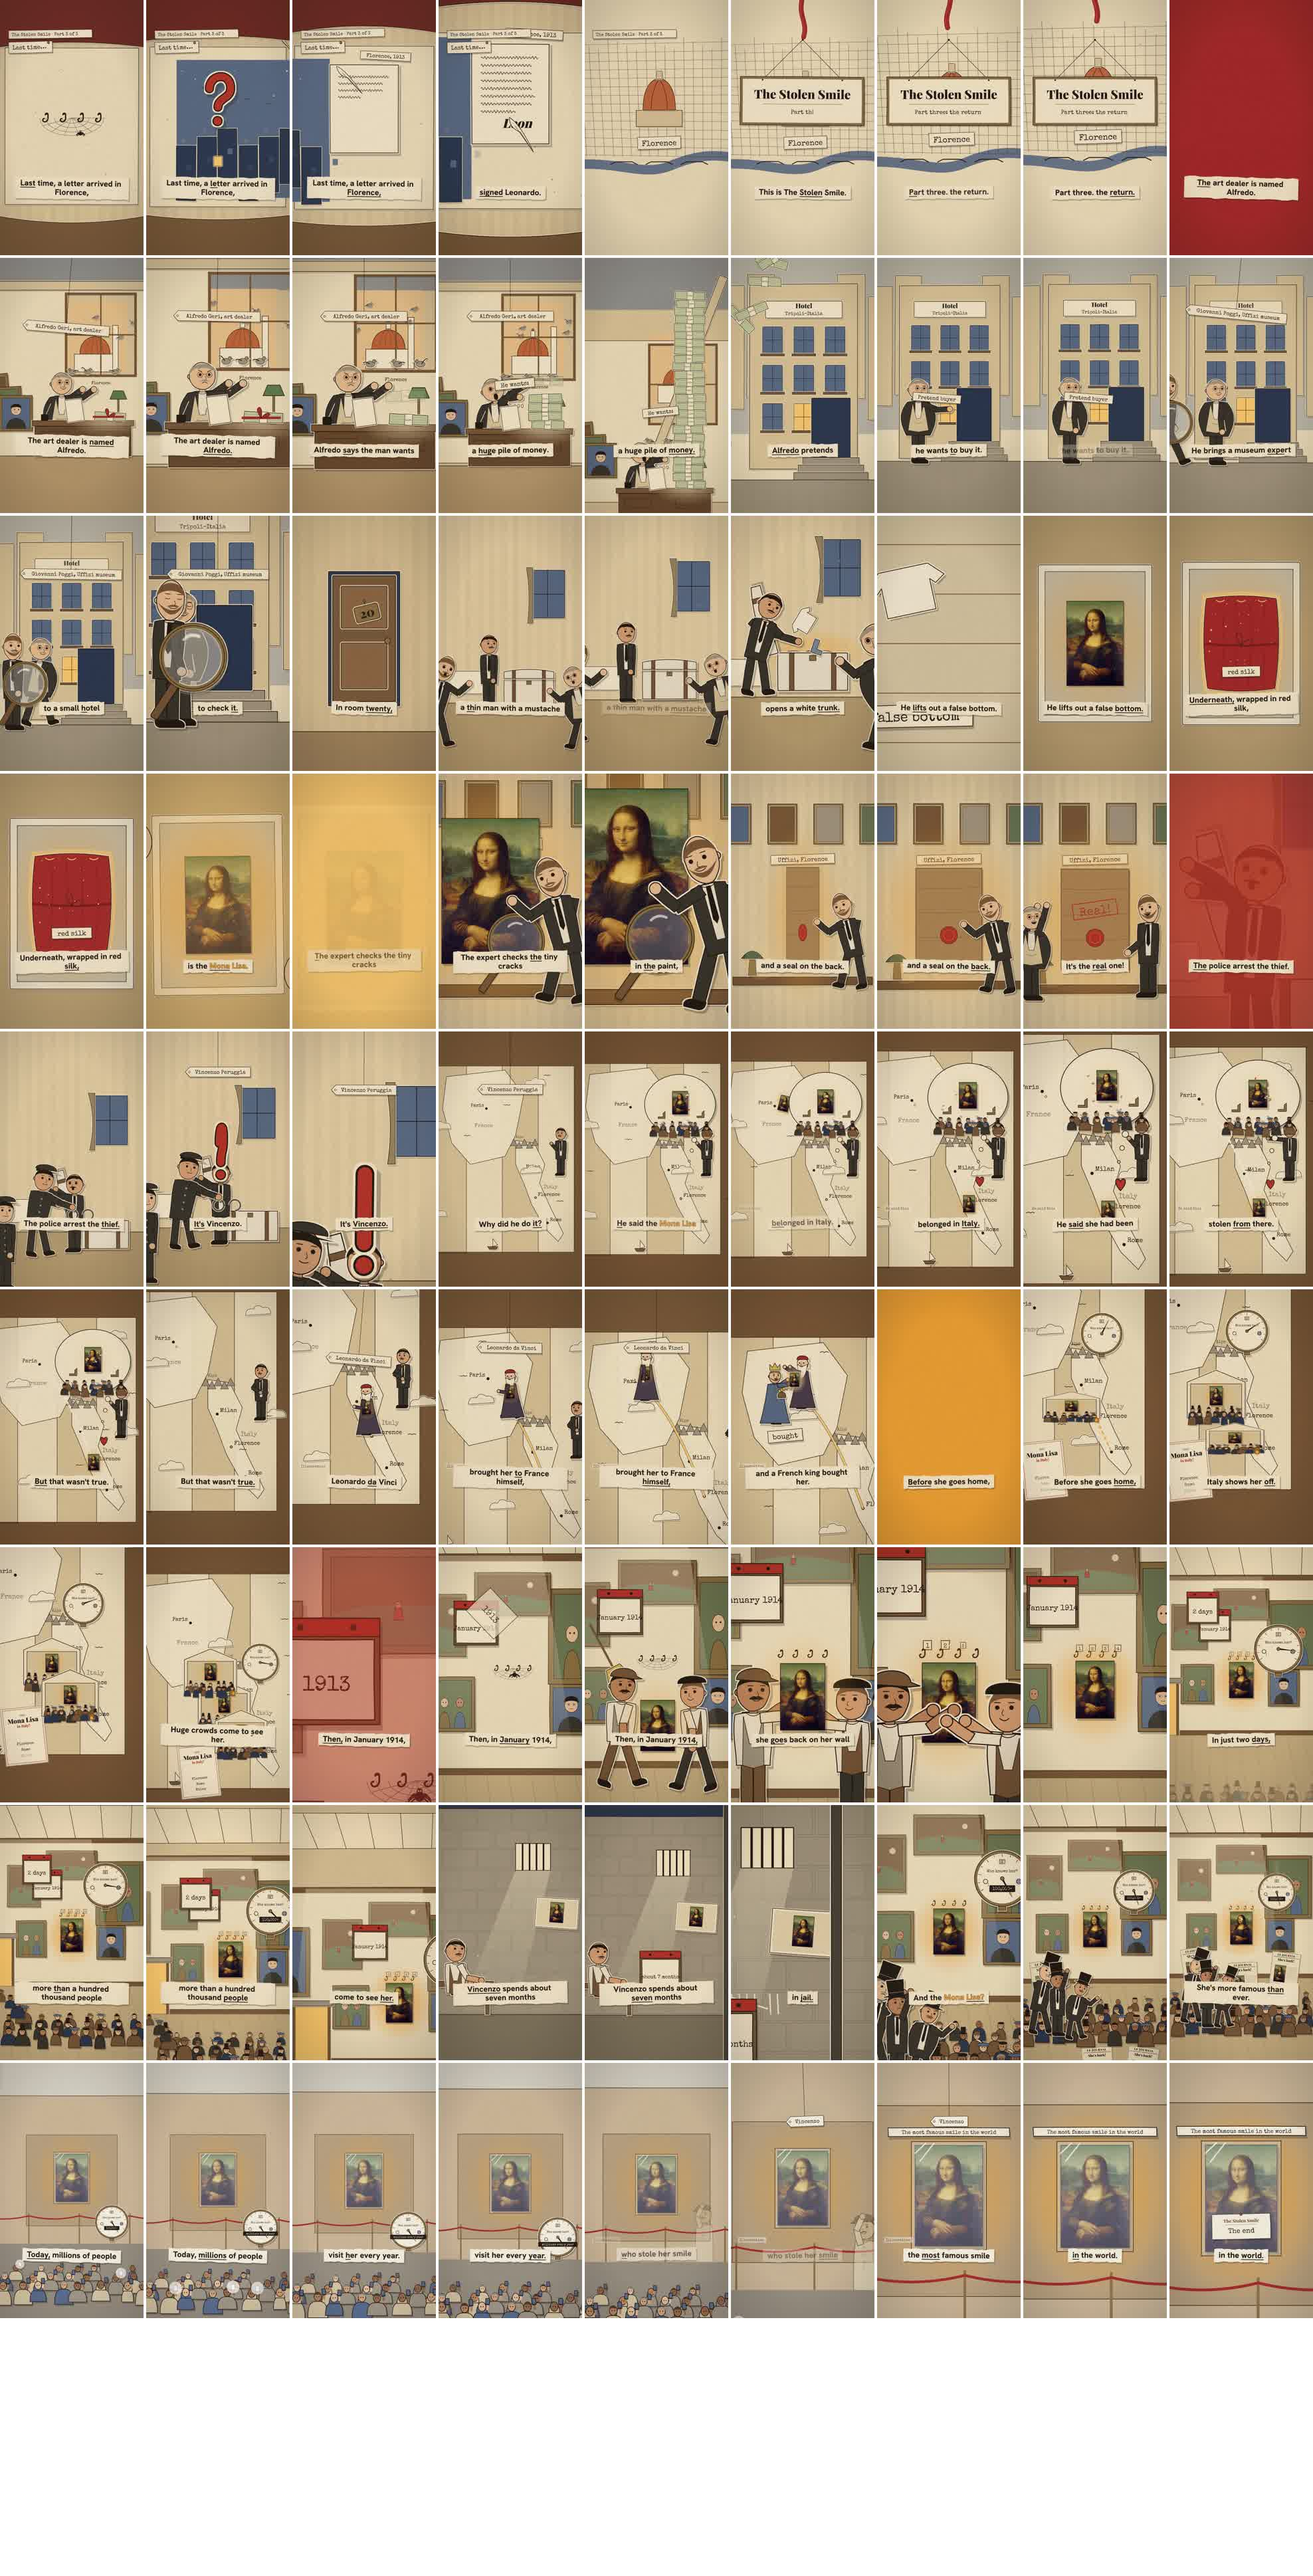
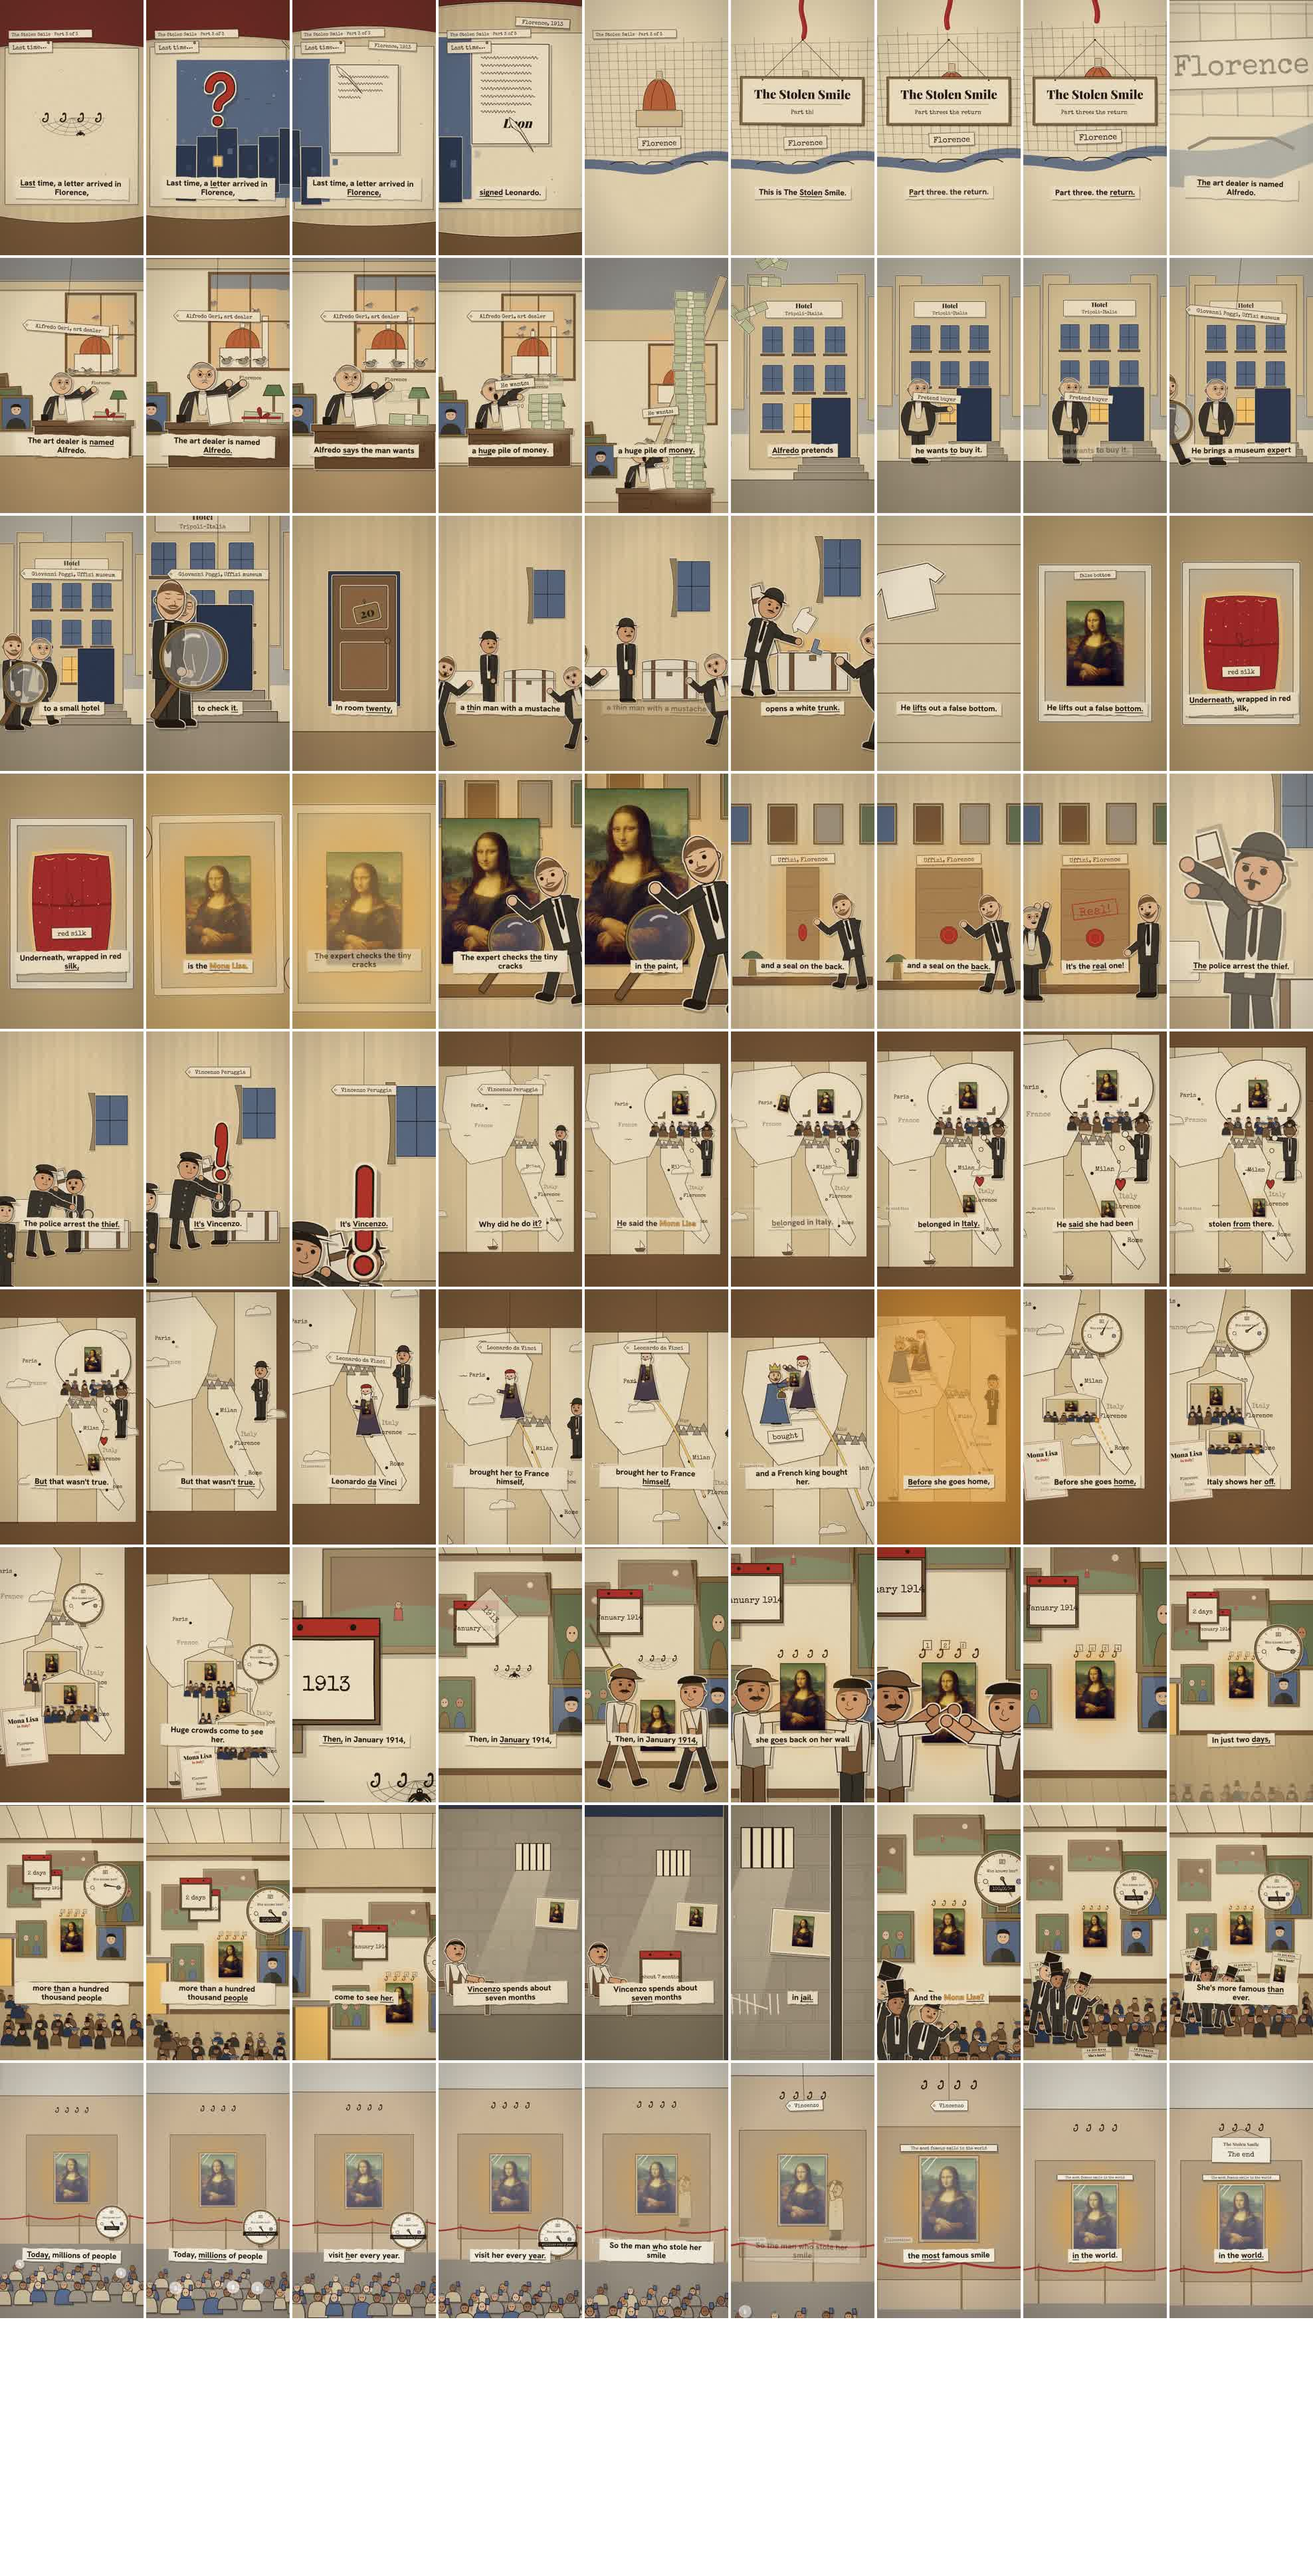
Stolen Smile 3 v1.1: continuity fixes (end card on wall hooks, labels, floods, ghost, bowler); stills refreshed
Claude-Session: https://claude.ai/code/session_01WProZZeLN84ujiXNibGUE2

diff --git a/projects/stolen-smile-3/film/src/p3/scenesB.tsx b/projects/stolen-smile-3/film/src/p3/scenesB.tsx
@@ -6,7 +6,7 @@ import {Camera, Layer} from '../kit/camera';
 import {C as T, FONT} from '../series/tokens';
 import {Crowd} from '../series/characters';
 import {PaperMap, MAP_CITIES, SalonCarre, HER, PrisonCell, ModernLouvre, MODERN_HER} from '../series/sets';
-import {FameGauge, Calendar as KCal, Newspaper, Postcard} from '../series/props';
+import {Hooks as KHooks, FameGauge, Calendar as KCal, Newspaper, Postcard} from '../series/props';
 import {B, pr, win, lerp, two, keys, inOut} from './util';
 import {Cut, rect, wrect, Chalk, Eraser, Tally, Confetti, TourPoster, NoteBundle} from './props';
 import {Wall, Floor, Dust} from './scenesA';
@@ -216,7 +216,7 @@ export const Cell: React.FC<S> = ({t, fr}) => {
       <Dust t={t} x={300} y={600} w={500} h={900} seed="cd" col={T.card} n={14} />
       <g transform="translate(860 860)">{t > B.seven + 0.4 && t < B.seven + 0.75 && <circle r={40} fill="url(#ss-amber-soft)" />}</g>
       <g transform="translate(220 1500)"><K.P who="vincenzo" fr={fr} costume="shirt" pose={t > B.seven + 0.8 ? 'sigh' : 'sit'} expr={t > B.seven + 0.8 ? 'smile' : 'sad'} look={[1.5, -1]} /></g>
-      <Layer depth={1.25}><KCal fr={fr} x={640} y={lerp(-300, 1220, pr(t, B.seven - 0.2, 0.4))} size={1.3} pages={['about 7 months']} />
+      <Layer depth={1.25}><g opacity={1 - pr(t, B.l14 - 0.7, 0.25)}><KCal fr={fr} x={640} y={lerp(-300, 1220, pr(t, B.seven - 0.2, 0.4))} size={1.3} pages={['about 7 months']} /></g>
         {[20, 1060].map((x) => <Cut key={x} d={rect(x - 18, -300, 36, 2500)} fill="#4A4540" sw={3} />)}</Layer>
     </Camera>
   );
@@ -250,14 +250,17 @@ export const Today: React.FC<S> = ({t, fr}) => {
   const push = pr(t, B.smile2 - 1.2, 2.0, inOut);
   const smY = MODERN_HER.y - MODERN_HER.h / 2 + 0.3 * MODERN_HER.h;
   return (
-    <Camera fr={fr} keys={keys([[a, {zoom: 0.95, x: 540, y: 1000}], [B.millions, {zoom: 1.0, x: 540, y: 980}], [B.stole, {zoom: 1.12, x: 540, y: 940}], [B.smile2, {zoom: 2.0, x: 540, y: MODERN_HER.y - 20}], [B.end + 1.4, {zoom: 2.15, x: 540, y: MODERN_HER.y - 30}]])} background={T.paper}>
+    <Camera fr={fr} keys={keys([[a, {zoom: 0.95, x: 540, y: 1000}], [B.millions, {zoom: 1.0, x: 540, y: 980}], [B.stole, {zoom: 1.12, x: 540, y: 940}], [B.smile2, {zoom: 1.6, x: 540, y: 860}], [B.end - 0.5, {zoom: 1.25, x: 540, y: 740}], [B.end + 1.4, {zoom: 1.28, x: 540, y: 736}]])} background={T.paper}>
       <Layer depth={0.2}><ModernLouvre fr={fr} only={['backdrop']} /></Layer>
       <ModernLouvre fr={fr} only={['mid']} herGlow={0.6 + 0.4 * push} glintAt={[F(B.end - 0.2)]} />
       {/* the museum's wall label: the payoff in print */}
       <g transform={`translate(540 ${MODERN_HER.y - MODERN_HER.h / 2 - 50})`} opacity={pr(t, B.smile2 - 0.3, 0.4)}><K.Label text="The most famous smile in the world" size={20} rot={0} /></g>
       {/* the ghost of Vincenzo in his white smock tips his cap */}
-      {ghost > 0 && <g transform="translate(860 1500)" opacity={ghost}><K.P who="vghost" fr={fr} h={460} pose="tipCap" expr="smile" facing={-1} /></g>}
       <ModernLouvre fr={fr} only={['actors']} flashAt={F(a)} flow={0.8} />
+      {/* the ghost of Vincenzo in his white smock tips his cap: standing by the wall, fully in frame */}
+      {ghost > 0 && <g transform="translate(730 1180)" opacity={ghost}><K.P who="vghost" fr={fr} h={330} pose="tipCap" expr="smile" facing={-1} /></g>}
+      {/* four kit hooks on the wall above her case: the end card hangs from them */}
+      <KHooks fr={fr} x={540} y={372} size={1.3} state="empty" />
       <Layer depth={1.2}><g opacity={1 - pr(t, B.stole - 0.4, 0.4)}><FameGauge fr={fr} x={860} y={1260} value={1.1} tremble={4} odometer={t > B.millions - 0.1 ? 'millions every year' : '100,000+'} size={0.8} /></g></Layer>
       {void smY}
     </Camera>

diff --git a/projects/stolen-smile-3/film/src/Film.tsx b/projects/stolen-smile-3/film/src/Film.tsx
@@ -32,7 +32,7 @@ const LINES = [
   'Vincenzo spends about seven months', 'in jail.',
   'And the Mona Lisa?', "She's more famous than ever.",
   'Today, millions of people', 'visit her every year.',
-  'So the man', 'who stole her smile', 'helped make it', 'the most famous smile', 'in the world.',
+  'So the man who stole her smile', 'helped make it', 'the most famous smile', 'in the world.',
 ];
 const CHUNKS = chunk(WORDS, LINES);
 
@@ -43,8 +43,8 @@ const SCENES: [number, React.FC<{t: number; fr: number}>][] = [
 ];
 // the carrier colour that fills the frame at each hand-off (the camera passes through the carrier)
 const PASS: Record<number, string> = {
-  [B.l2]: C.silk, [B.l3]: '#C9D3B0', [B.l4]: C.nightBlue, [B.l5]: '#C9C0AE', [B.l6]: C.amberGlow, [B.l7]: C.clueRed,
-  [B.l8]: '#FBFAF4', [B.l10]: C.amber, [B.l11]: C.clueRed, [B.l13]: C.card, [B.l14]: C.card,
+  [B.l2]: C.card, [B.l3]: '#C9D3B0', [B.l4]: C.nightBlue, [B.l5]: '#C9C0AE', [B.l6]: C.amberGlow, [B.l7]: C.card,
+  [B.l8]: '#FBFAF4', [B.l10]: C.amber, [B.l11]: C.card, [B.l13]: C.card, [B.l14]: C.card,
 };
 
 export const Film: React.FC<{captions?: boolean}> = ({captions = true}) => {
@@ -53,8 +53,8 @@ export const Film: React.FC<{captions?: boolean}> = ({captions = true}) => {
   let idx = 0;
   for (let i = 0; i < SCENES.length; i++) if (t >= SCENES[i][0]) idx = i;
   const Scene = SCENES[idx][1];
-  const passCol = Object.entries(PASS).map(([k, col]) => [Number(k), col] as const).find(([k]) => Math.abs(t - k) < 0.2);
-  const passO = passCol ? interpolate(Math.abs(t - passCol[0]), [0, 0.1, 0.2], [1, 0.85, 0], CL) : 0;
+  const passCol = Object.entries(PASS).map(([k, col]) => [Number(k), col] as const).find(([k]) => Math.abs(t - k) < 0.14);
+  const passO = passCol ? interpolate(Math.abs(t - passCol[0]), [0, 0.06, 0.14], [0.6, 0.45, 0], CL) : 0;
   const modern = t >= B.l15 - 0.3;
   const wash = modern ? 1 - pr(t, B.l15 - 0.3, 0.9) : undefined;
   return (
@@ -74,8 +74,8 @@ export const Film: React.FC<{captions?: boolean}> = ({captions = true}) => {
       <HonestyTag fr={fr} at={F(B.italy)} text="He said this" dur={110} />
       <HonestyTag fr={fr} at={F(B.leo)} text="Illustration" dur={110} />
       <HonestyTag fr={fr} at={F(B.stole)} text="Illustration" dur={70} />
-      <NameTag fr={fr} at={F(B.stole) + 4} text="Vincenzo" y={440} dur={60} />
-      <EndCard fr={fr} at={F(B.end - 0.3)} part={3} text="The end" x={540} y={1230} />
+      <NameTag fr={fr} at={F(B.stole) + 4} text="Vincenzo" y={320} dur={60} />
+      <EndCard fr={fr} at={F(B.end - 0.3)} part={3} text="The end" x={540} y={655} hangFrom={[540, 500]} />
       <Captions fr={fr} chunks={CHUNKS} show={captions} />
     </SeriesGrade>
   );

diff --git a/projects/stolen-smile-3/film/src/p3/scenesA.tsx b/projects/stolen-smile-3/film/src/p3/scenesA.tsx
@@ -105,7 +105,7 @@ export const Recap: React.FC<S> = ({t, fr}) => {
         <g transform={`translate(${60 + Math.sin(t * 3) * 6} ${80 + Math.sin(t * 2) * 30})`}><K.Spider fr={fr} size={2.5} /></g></g>
       <g transform={`translate(${bX} 960)`}><RoofsQ t={t} /></g>
       <g transform={`translate(${cX} 960)`}>
-        <g transform="translate(150 -520)"><K.Label text="Florence, 1913" size={36} rot={3} /></g>
+        <g transform="translate(200 -590)"><K.Label text="Florence, 1913" size={34} rot={3} /></g>
         <KLetter fr={fr} x={0} y={-150} size={1.4} write={pr(t, 1.9, 1.3, (k) => k)} sign={sign} dropAt={F(B.leonardo + 0.28)} />
         {t < B.leonardo + 0.8 && <g transform={`translate(${t < 3.2 ? -180 + ((t - 1.9) / 1.3 * 8 % 1) * 340 : 40 + sign * 200} ${t < 3.2 ? -400 + Math.floor((t - 1.9) / 1.3 * 8) * 48 : 210}) rotate(${-30 + Math.sin(t * 20) * 8})`}>
           <path d="M0,0 L-14,-150 Q-60,-200 -30,-260 Q10,-200 0,0 Z" fill={T.card} stroke={T.ink} strokeWidth={3} /><path d="M0,0 L-24,-200" stroke={T.ink} strokeWidth={2} /></g>}
@@ -312,12 +312,13 @@ export const TrunkTop: React.FC<S> = ({t, fr}) => {
         <path d="M0,14 q-60,-70 -20,-90 q40,10 20,90 q50,-60 80,-30 q-10,40 -80,30" fill={T.silk} stroke={T.ink} strokeWidth={3} />
         <g transform="translate(0 200)"><K.Label text="red silk" size={46} /></g>
       </g>}
+      {/* label above the trunk (kit label size), while the board lifts */}
+      <g transform="translate(540 455)" opacity={win(t, B.lifts - 0.1, B.underneath + 0.3, 0.15)}><K.Label text="false bottom" size={36} /></g>
       {/* the false bottom board lifts out toward the camera */}
       {board < 1 && <g transform={`translate(${540 + board * 700} ${960 - board * 200}) rotate(${board * 30}) scale(${1 + board * 0.6})`}>
         <Cut d={rect(-370, -530, 740, 1060, 6)} fill="#D9CCB2" sw={3.5} />
         {Array.from({length: 6}, (_, i) => <path key={i} d={`M-370,${-530 + i * 177}h740`} stroke={T.sepia} strokeWidth={3} />)}
         <circle cx={300} cy={0} r={18} fill={T.sepia} stroke={T.ink} strokeWidth={2.5} />
-        <g transform="translate(-120 260)"><K.Label text="false bottom" size={50} /></g>
         {/* leftover shirt on the board */}
         <g transform="translate(-150 -200) rotate(-12)"><Cut d="M-90,-70 h180 l50,50 -36,24 -18,-18 v110 h-176 v-110 l-18,18 -36,-24z" fill={T.white} /></g>
       </g>}

diff --git a/projects/stolen-smile-3/film/src/p3/K.tsx b/projects/stolen-smile-3/film/src/p3/K.tsx
@@ -25,7 +25,7 @@ export const P: React.FC<{who: Who; fr: number; pose?: PoseName; expr?: Expr; fa
   ({who, fr, pose = 'stand', expr = 'calm', facing = 1, h, hold, under, look, costume = 'suit', monocle}) => {
     const c = {fr, x: 0, y: 0, pose, expr, facing, hold, under, look};
     switch (who) {
-      case 'vincenzo': return <Vincenzo {...c} costume={costume} hatOff={costume === 'suit'} height={h} />;
+      case 'vincenzo': return <Vincenzo {...c} costume={costume} hatOff={false} height={h} />;
       case 'vghost': return <Vincenzo {...c} costume="smock" ghost height={h} />;
       case 'geri': return <Geri {...c} height={h} />;
       case 'police': return <Police {...c} force="florence" tone={2} height={h} />;

diff --git a/projects/stolen-smile-3/REPORT.md b/projects/stolen-smile-3/REPORT.md
@@ -1,3 +1,29 @@
+# v1.1 (2026-11-07 22:15 UTC): continuity fixes from the orchestrator's cross-part judge
+
+**Final v1.1:** `projects/stolen-smile-3/renders/stolen-smile-3_v1.1.mp4`. 81.27 s, **2438 frames** (checked after the
+full re-render), **-14.2 LUFS, -1.8 dBTP**. **motion_check PASS:** movers median 20 vs bar 18, no flagged seconds
+(run on the final downscaled to quarter size).
+
+| # | Fix | Done |
+|---|---|---|
+| 1 | "The end" was over her body | Centred on the wall, card top at y 560. It hangs on strings from four kit hooks drawn on the wall above her case. The camera eases back (zoom 1.25) for the last second, so her face and the card are both clear. The museum label "The most famous smile in the world" sits between them |
+| 2 | "false bottom" label | Kit label size (36), above the trunk, clear of the caption and the left edge; it shows only while the board lifts |
+| 3 | "Florence, 1913" clashed with the corner tab | Moved right and down, clear of the tab and of "Last time…" |
+| 4 | Red full-frame floods at 8 s and 36 s | Every hand-off flood is now a paper-card wash: ≤ 8 frames, peak opacity 0.6, so the picture shows through. No red remains (8.4 s silk, 35.4 s stamp, 56.2 s Paris ring). The amber wash at 51.4 s is kept, also shortened |
+| 5 | Recap hooks flat | Unchanged, as asked |
+| 6 | Ghost / caption / calendar | Ghost Vincenzo stands by the wall, fully in frame and drawn over the crowd (name tag moved up to y 320). "So the man who stole her smile" is now one caption chunk, so no mid-line fade (the pale 76 s sample was the 3-frame hand-off between two short chunks). The "about 7 months" calendar fades before the push into the postcard, so no "onths" fragment |
+| 7 | Vincenzo's bowler | His suit shots now use the kit bowler. Kit scale is kept: Vincenzo 560 < Geri 620 < Poggi 690 |
+
+Flicker (YAVG) after the fixes: the largest jump is the designed panel flip at 32.2 s. The hand-off washes dropped from
+26 to 15 or below. Stills replaced with v1.1 frames: `stills/sheet_1fps.jpg`, `hero_28_6s.jpg`, `hero_60_8s.jpg`,
+`hero_80_6s.jpg` (end card), `frame0.jpg`, `last_frame.jpg`.
+
+Open: the kit HonestyTag ("Illustration", y 1340) is partly covered by two-line captions at 76–78 s; it's a kit
+default, so it's left for the kit owner to decide. "Under her case" and "card top at y 560" pull in different
+directions; I followed the y 560 instruction and put the hooks above her case.
+
+---
+
 # Stolen Smile 3: "The return": build report
 
 **Final:** `projects/stolen-smile-3/renders/stolen-smile-3_v1.mp4` (git-ignored; delivered through the session).
@@ -125,5 +151,5 @@ Voice: AI. Music: "Floating Cities" by Kevin MacLeod (incompetech.com), licensed
 - Hero stills:
   - `stills/hero_28_6s.jpg`: the reveal
   - `stills/hero_60_8s.jpg`: back on the four hooks
-  - `stills/hero_79_6s.jpg`: the end
+  - `stills/hero_80_6s.jpg`: the end (v1.1)
 - `stills/frame0.jpg`, `stills/last_frame.jpg`

diff --git a/projects/stolen-smile-3/film/PLAN.md b/projects/stolen-smile-3/film/PLAN.md
@@ -171,3 +171,4 @@ Toy-theatre paper look from the kit (tokens, SeriesGrade, CameraRig planes, capt
   unnamed (name tag "Vincenzo"); the payoff (museum wall label "The most famous smile in the world" above her).
 - 21:24 full render started (3 chunks, crf 18).
 - 21:53 delivered; REPORT.md written.
+- 22:00 v1.1 fixes from the continuity judge; 22:14 full re-render, motion PASS (median 20), 2438 frames, -14.2 LUFS / -1.8 dBTP.
